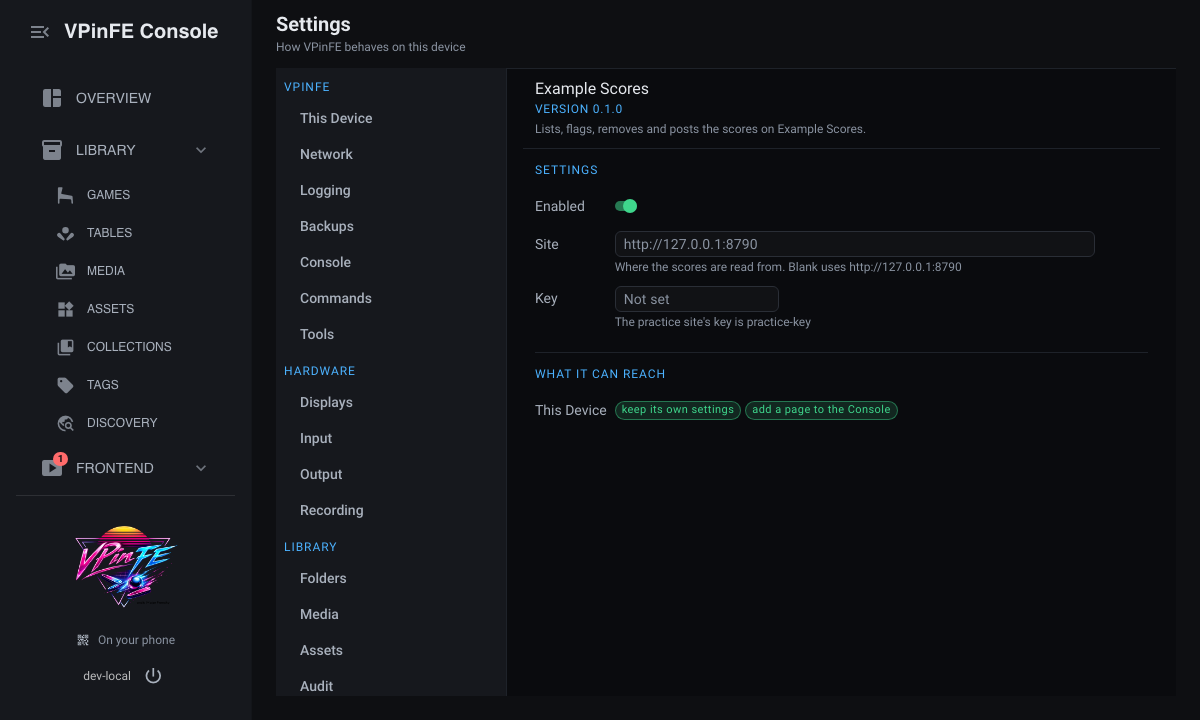
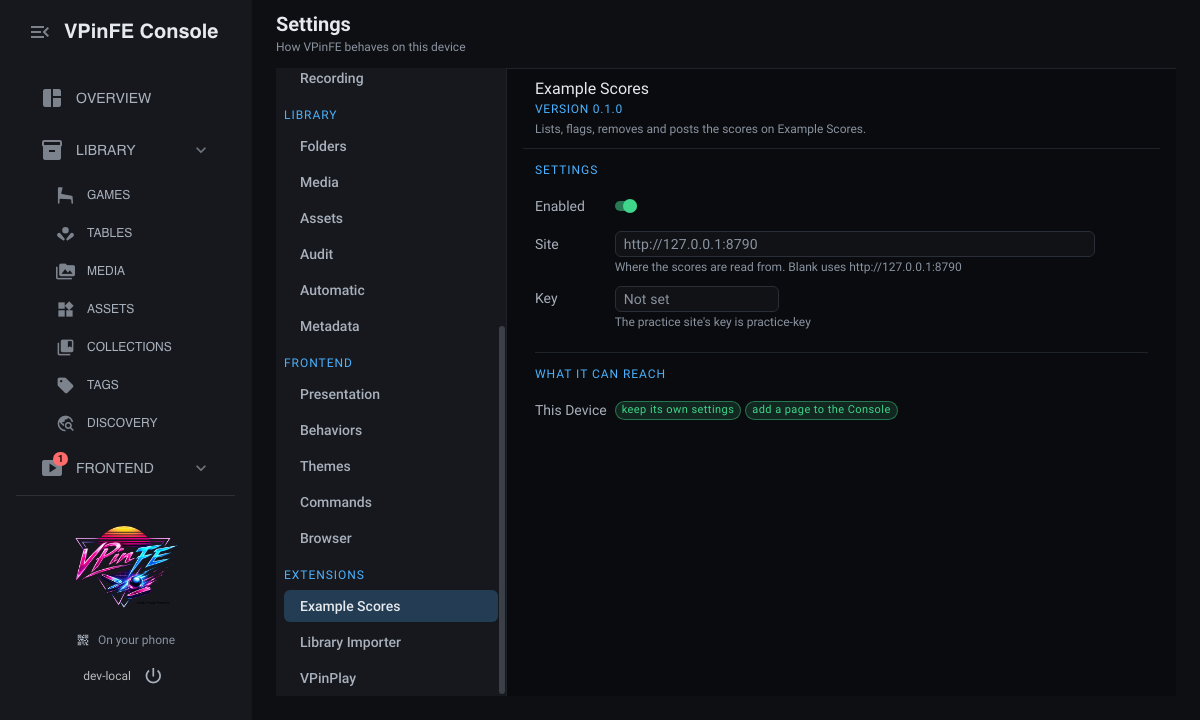
The Learn pages' dialog title and fact label take title case, and each picture shows what its prose says
- Lessons 7 to 10: the dialog title reads The Score and the group's fact reads Best Score, as
  docs/conventions.md asks of labels and headings; the guide test and the screenshot wait follow
- Lessons 1 to 3 and the rail picture: the Settings list and the Community rail are scrolled to
  Example Scores, which sat below the fold in the earlier pictures
- Lesson 4: the picture is the Newest view, the one that shows the date and the colored status
  the lesson promises; the In Your Library view only carries three columns
- All eleven pictures retaken; tutorial.md regenerated from the lesson files

diff --git a/docs/extensions/examples/screenshots.py b/docs/extensions/examples/screenshots.py
@@ -57,6 +57,17 @@ async def show(page: BrowserSession, inst: LiveInstance, path: str, ready: str) 
     await page.navigate(inst.console_url(path))
     await page.wait_for(ready, timeout=60)
     await asyncio.sleep(1.0)
+    await reveal(page, "Example Scores")
+
+
+async def reveal(page: BrowserSession, text: str) -> None:
+    """Scrolls every list or rail that holds `text` so that entry is in view."""
+    await page.evaluate(
+        "((text) => [...document.querySelectorAll('*')].filter(el => el.children.length === 0"
+        " && el.innerText?.trim().toLowerCase() === text.toLowerCase())"
+        ".forEach(el => el.scrollIntoView({block: 'center'})))"
+        f"({json.dumps(text)})")
+    await asyncio.sleep(0.4)
 
 
 async def snap(page: BrowserSession, name: str) -> None:
@@ -120,6 +131,16 @@ async def list_page(page: BrowserSession, inst: LiveInstance, name: str) -> None
     await snap(page, name)
 
 
+async def newest_view(page: BrowserSession, inst: LiveInstance) -> None:
+    await show(page, inst, LIST, "document.querySelectorAll('.ag-row').length > 0")
+    await page.click(".q-select", nth=0)
+    await asyncio.sleep(0.6)
+    await click_text(page, ".q-item", "Newest")
+    await page.wait_for("document.querySelectorAll('.ag-row').length === 3", timeout=20)
+    await asyncio.sleep(0.8)
+    await snap(page, "04-reads-well")
+
+
 async def title_menu(page: BrowserSession, inst: LiveInstance) -> None:
     await show(page, inst, LIST, "document.querySelectorAll('.ag-row').length > 0")
     await click_text(page, ".q-btn", "more_vert")
@@ -153,7 +174,7 @@ async def group(page: BrowserSession, inst: LiveInstance) -> None:
     games = inst.api("/api/v1/games")["games"]
     game = next(one["id"] for one in games if one["vps_id"] == "9Paf7-CL")
     await show(page, inst, f"/console?view=games&game={game}&section=play",
-               has_text("Best score"))
+               has_text("Best Score"))
     await snap(page, "09-panel-group")
 
 
@@ -163,7 +184,7 @@ LESSONS: dict[str, tuple[str, bool, list[Shot]]] = {
     "01": ("01-loads", False, [lambda p, i: settings_page(p, i, "01-loads")]),
     "02": ("02-settings", False, [key_set]),
     "03": ("03-list", True, [lambda p, i: list_page(p, i, "03-list")]),
-    "04": ("04-reads-well", True, [lambda p, i: list_page(p, i, "04-reads-well")]),
+    "04": ("04-reads-well", True, [newest_view]),
     "05": ("05-title-menu", True, [title_menu]),
     "06": ("06-rows", True, [rows_menu]),
     "07": ("07-adding", True, [dialog]),

diff --git a/tests/extensions/test_guide.py b/tests/extensions/test_guide.py
@@ -599,7 +599,7 @@ class LessonsDoWhatTheyClaim(ExamplesLoadedByTheHost):
 
         self.assertEqual(there["title"], "Example Scores")
         self.assertEqual([(one["label"], one["value"]) for one in there["section"]["facts"]],
-                         [("Best score", "980,500,000"), ("Scores", "1")])
+                         [("Best Score", "980,500,000"), ("Scores", "1")])
         self.assertIsNone(unknown["section"])
         self.assertIsNone(gone["section"])
 

diff --git a/docs/extensions/tutorial.md b/docs/extensions/tutorial.md
@@ -437,7 +437,7 @@ and `rows` told it what happened.
 **What you'll have:** the list with the game drawn the way the Games page draws it, a date, a
 colored status, two views and a line saying where the scores came from.
 
-![The list with each game's picture, name and maker, a player and a score, in the view that shows what the library holds](images/04-reads-well.png)
+![The list in its Newest view: each game's picture, name and maker, a player, a score, a date and a colored status](images/04-reads-well.png)
 
 ### Write it
 
@@ -805,7 +805,7 @@ The words are the title, the labels, the refusal and the confirmation.
 
 ```json
   "action.post.label": "Post a Score",
-  "dialog.title": "The score",
+  "dialog.title": "The Score",
   "dialog.player": "Player",
   "dialog.table": "Table",
   "dialog.points": "Score",
@@ -1033,7 +1033,7 @@ rather than an empty one.  The word for its title is in the catalog.
 
 ```json
   "group.game.title": "Example Scores",
-  "group.best": "Best score",
+  "group.best": "Best Score",
   "group.count": "Scores",
   "log.played": {
     "one": "{game} was played for a minute",
@@ -1420,7 +1420,7 @@ def register(ctx):
     "other": "Remove these {count} scores from the site?"
   },
   "action.post.label": "Post a Score",
-  "dialog.title": "The score",
+  "dialog.title": "The Score",
   "dialog.player": "Player",
   "dialog.table": "Table",
   "dialog.points": "Score",
@@ -1439,7 +1439,7 @@ def register(ctx):
   "pane.mine": "Yours",
   "pane.note": "Note",
   "group.game.title": "Example Scores",
-  "group.best": "Best score",
+  "group.best": "Best Score",
   "group.count": "Scores",
   "log.played": {
     "one": "{game} was played for a minute",
